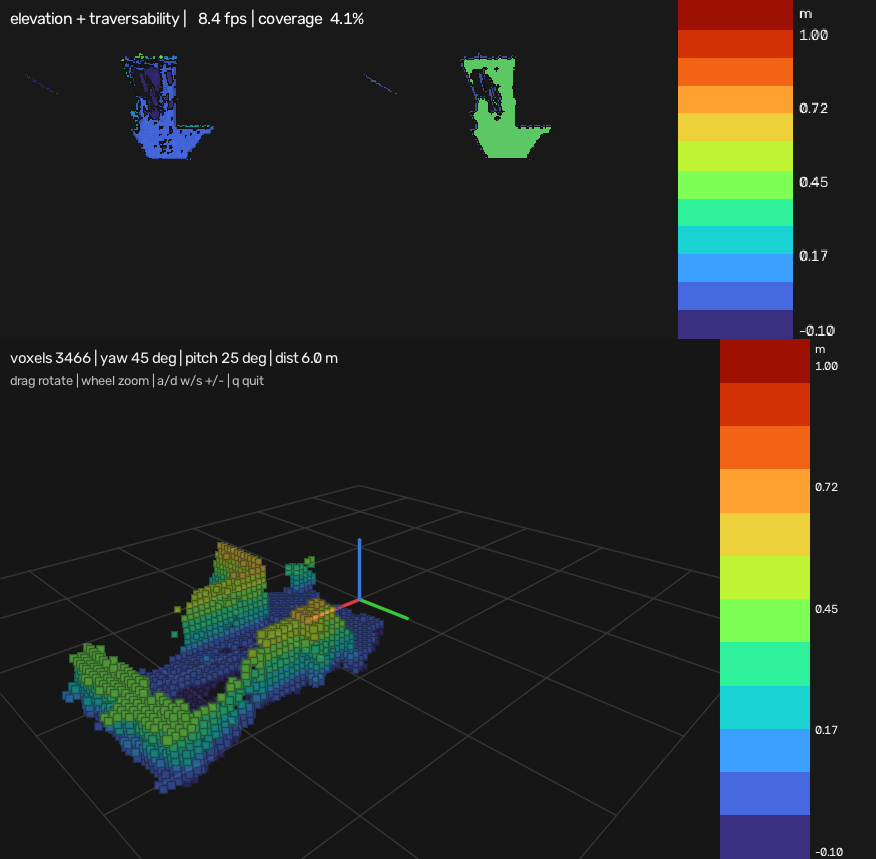
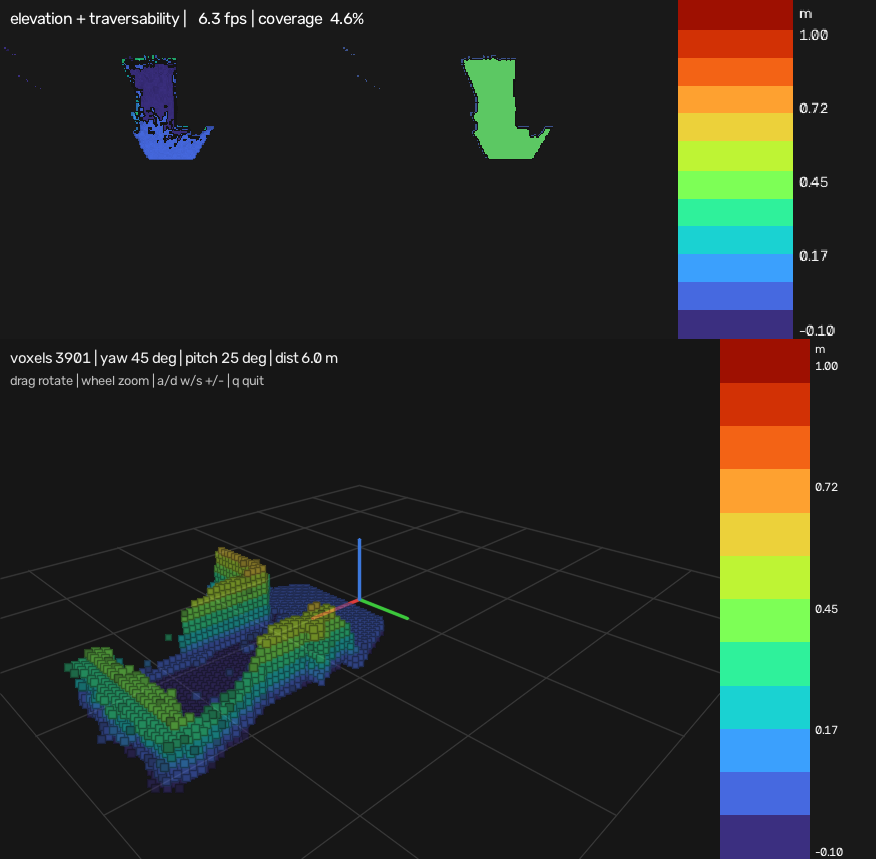
docs(map): refresh voxel screenshots
- regenerate D435i and D435i + Airy captures with the probability voxel renderer
- update image captions and the Airy run metrics to the current capture

diff --git a/docs/sensor-profiles.md b/docs/sensor-profiles.md
@@ -205,8 +205,8 @@ Y = (v - cy) * Z / fy
   实测约 8–10 Hz、6.5–7.1 万点/帧；
 - 运行：`realsense_live.py --lidar-topic /rslidar_points`，使用
   `.venv-ros`（`--system-site-packages`）同时看到 rclpy 与项目依赖；
-- 结果：30 个相机帧融合了 15 个 LiDAR 帧，12 m 地图覆盖率 6.3%
-  （3634/57600 cells），3D 体素视图约 2.9 万格；相机建图均值约 4.6 ms/step
+- 结果：30 个相机帧融合了 15 个 LiDAR 帧，12 m 地图覆盖率 6.6%
+  （3774/57600 cells），3D 概率体素视图约 2.4 万格；相机建图均值约 4.5 ms/step
   （不含 ROS/LiDAR 接收与渲染）；
 - 限制：当前用相机 stamp 作为统一时间戳，未做 LiDAR/相机硬件时间同步；外参做了
   旋转后自动地面 z 对齐 + 手动 `--lidar-roll/--lidar-pitch/--lidar-yaw/--lidar-offset`

diff --git a/README.zh-CN.md b/README.zh-CN.md
@@ -67,7 +67,7 @@ uv run pico-elevationmap export --input maps/replay_map.npz --layers elevation -
 - **四相机 D435i**：见 [§5.5](docs/development.md) 与 `quad_camera.yaml`
 - **ROS2 launch / Foxglove**：见 [§5.3 / §5.4](docs/development.md)
 
-![D435i 实时高程、traversability 与 3D 体素视图](https://raw.githubusercontent.com/PICO4robot/PICO-elevationmap/main/docs/assets/realsense_window.png)
+![D435i 实时高程、traversability 与概率体素视图](https://raw.githubusercontent.com/PICO4robot/PICO-elevationmap/main/docs/assets/realsense_window.png)
 
 静态 D435i 的原型质量输出，不是标定后的部署效果。
 

diff --git a/docs/development.md b/docs/development.md
@@ -228,7 +228,7 @@ source /path/to/rslidar_ws/install/setup.bash
 ```
 
 本机实测：Airy 约 8–10 Hz、6.5–7.1 万点/帧；30 个相机帧融合 15 个 LiDAR 帧，
-12 m 地图覆盖率 6.3%，3D 体素视图约 2.9 万格。当前用相机 stamp 统一对齐，
+12 m 地图覆盖率 6.6%，3D 概率体素视图约 2.4 万格。当前用相机 stamp 统一对齐，
 LiDAR 时间戳未参与位姿插值；外参用 `--lidar-roll` / `--lidar-pitch` /
 `--lidar-yaw` / `--lidar-offset` 手工微调。默认 LiDAR z 轴朝上；**倒装时加
 `--lidar-roll 180`（绕 x 翻转）或 `--lidar-pitch 180`（绕 y 翻转）**，自动地面

diff --git a/README.md b/README.md
@@ -69,7 +69,7 @@ Optional live paths (details in the docs above):
 - **Four-camera D435i**: see [§5.5](docs/development.md) and `quad_camera.yaml`
 - **ROS2 launch / Foxglove bridge**: see [§5.3 / §5.4](docs/development.md)
 
-![D435i live elevation, traversability and 3D voxel view](https://raw.githubusercontent.com/PICO4robot/PICO-elevationmap/main/docs/assets/realsense_window.png)
+![D435i live elevation, traversability and probability voxel view](https://raw.githubusercontent.com/PICO4robot/PICO-elevationmap/main/docs/assets/realsense_window.png)
 
 Prototype-quality output from a static D435i; not a calibrated deployment.
 

diff --git a/CHANGELOG.md b/CHANGELOG.md
@@ -13,6 +13,8 @@ The project is pre-1.0: minor releases may contain breaking changes.
 - `README.md` is now the concise English entry point and `README.zh-CN.md` the concise
   Chinese entry point; detailed live-sensor, ROS2 launch and Foxglove instructions live
   in `docs/development.md`.
+- Regenerated `docs/assets/realsense_window.png` and `docs/assets/dual_voxel.png` with
+  the probability voxel renderer.
 
 ### Changed
 
